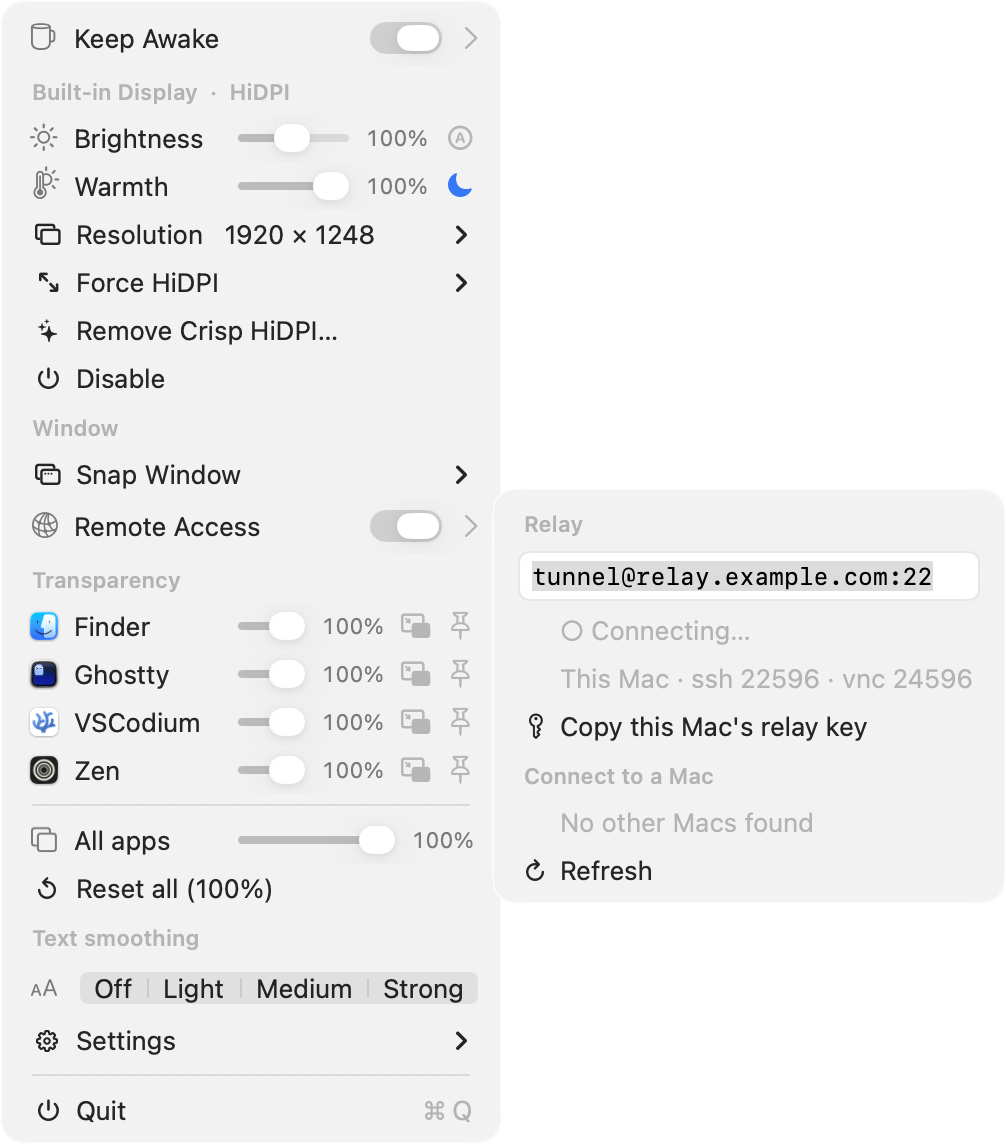
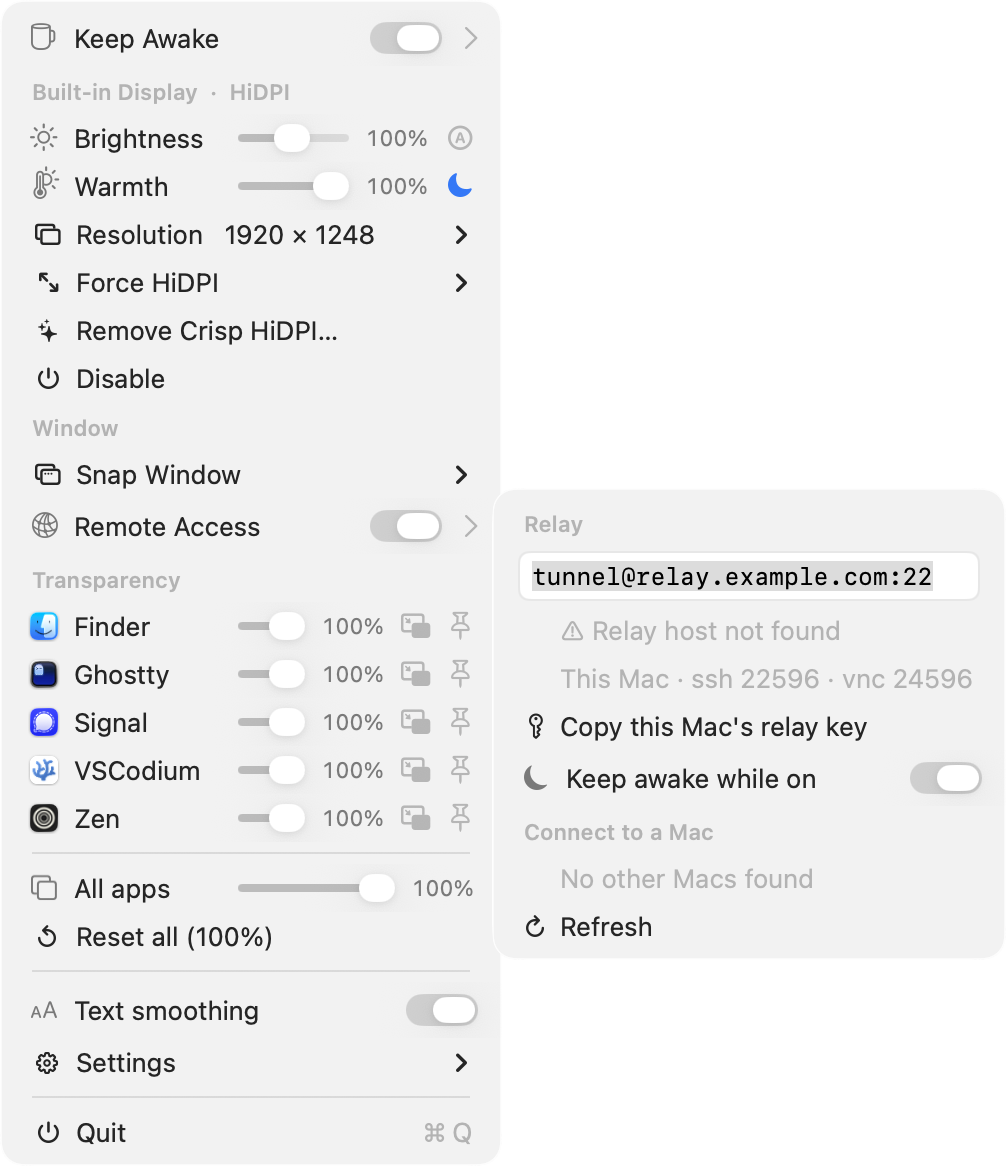
v2.5.0: Remote Access file transfer (SFTP), live peer status, keep-awake-while-on, connection error reasons

diff --git a/docs/index.html b/docs/index.html
@@ -32,7 +32,7 @@
   "processorRequirements": "Apple Silicon",
   "url": "https://displaydeck.pyxis3.ai/",
   "downloadUrl": "https://github.com/oabdrabo/DisplayDeck/releases/latest",
-  "softwareVersion": "2.4.4",
+  "softwareVersion": "2.5.0",
   "license": "https://opensource.org/licenses/MIT",
   "author": { "@type": "Person", "name": "Omar Abdrabo" },
   "description": "A tiny macOS menu-bar app: disable screens, force HiDPI, boost brightness past 100%, warm the colors (auto at night), snap and tile windows, make any window transparent or float, reach your Mac from anywhere, and keep it awake.",
@@ -292,7 +292,7 @@
       <div class="feat"><span class="tag">COLOR</span><h3>Warmth + auto-night</h3><p>A per-display color-temperature slider, f.lux style: neutral 6500&nbsp;K down to a warm ~3400&nbsp;K via gamma ramps. An automatic night schedule (the 🌙 toggle) eases warmth on at dusk and off by morning, hands-free.</p></div>
       <div class="feat"><span class="tag">TILING</span><h3>Window snapping</h3><p>Tile the focused window to halves, quarters, thirds, maximize or center — with global ⌃⌥ shortcuts, drag-to-edge snapping, and a menu of layout glyphs. No SIP changes needed.</p></div>
       <div class="feat"><span class="tag">WINDOWS</span><h3>Transparency, float &amp; PiP</h3><p>Set any app's opacity, add frosted-glass blur, keep a window on top, or shrink one into a still-usable floating corner.</p></div>
-      <div class="feat"><span class="tag">REMOTE</span><h3>Remote access</h3><p>Reach this Mac — and your other Macs — from anywhere, nothing to install. An auto-reconnecting reverse-SSH tunnel through a relay you control forwards SSH and Screen Sharing; peers are auto-discovered, so you can Screen Share or SSH into them from the menu.</p></div>
+      <div class="feat"><span class="tag">REMOTE</span><h3>Remote access</h3><p>Reach this Mac — and your other Macs — from anywhere, nothing to install. An auto-reconnecting reverse-SSH tunnel through a relay you control forwards SSH, Screen Sharing, and file transfer; peers are auto-discovered with live online status, so you can Screen Share, SSH, or send files from the menu. Stays awake while on so it's reachable.</p></div>
       <div class="feat"><span class="tag">POWER</span><h3>Keep awake</h3><p>An IOKit caffeine assertion so your Mac and its display won't sleep — indefinitely (a toggle), or for a duration you pick. Left-click the mug to toggle.</p></div>
       <div class="feat"><span class="tag">TEXT</span><h3>Text smoothing</h3><p>Toggle macOS's grayscale antialiasing on/off — one system-wide switch across every display, the built-in included. Most visible on non-Retina, external, or scaled monitors. macOS treats it as binary, so it's a single switch.</p></div>
     </div>

diff --git a/src/remote/RemoteAccess.m b/src/remote/RemoteAccess.m
@@ -1,23 +1,45 @@
 #import "RemoteAccess.h"
 #import <AppKit/AppKit.h>
+#import <IOKit/pwr_mgt/IOPMLib.h>
 
 static NSString *const kEnabledKey  = @"RemoteAccessEnabled";
 static NSString *const kServicesKey = @"RemoteServicesEnabled";   // services already turned on once
 static NSString *const kRelayHostKey = @"RemoteRelayHost";
 static NSString *const kRelayUserKey = @"RemoteRelayUser";
 static NSString *const kRelayPortKey = @"RemoteRelayPort";
+static NSString *const kKeepAwakeKey = @"RemoteKeepAwake";
 
 static NSString *const kDefaultRelayHost = @"";          // unset by default — user configures
 static NSString *const kDefaultRelayUser = @"tunnel";
 static NSString *const kDefaultRelayPort = @"22";
 
+// Boil ssh's stderr down to one human-readable cause so the menu can say *why*.
+static NSString *ddFriendlyTunnelError(NSString *raw) {
+    if (raw.length == 0) return nil;
+    NSString *low = raw.lowercaseString;
+    if ([low containsString:@"remote port forwarding failed"]) return @"Relay port already in use";
+    if ([low containsString:@"could not resolve"])             return @"Relay host not found";
+    if ([low containsString:@"permission denied"])             return @"Relay rejected the key";
+    if ([low containsString:@"host key verification failed"])  return @"Relay host key changed";
+    if ([low containsString:@"connection refused"] || [low containsString:@"timed out"] ||
+        [low containsString:@"no route to host"] || [low containsString:@"network is unreachable"])
+        return @"Relay unreachable";
+    for (NSString *line in [raw componentsSeparatedByString:@"\n"]) {
+        NSString *t = [line stringByTrimmingCharactersInSet:[NSCharacterSet whitespaceAndNewlineCharacterSet]];
+        if (t.length) return t;
+    }
+    return nil;
+}
+
 @interface RemoteAccess ()
 @property (nonatomic, strong) NSTask *task;
 @property (nonatomic) BOOL connected;
+@property (nonatomic, copy, nullable) NSString *lastError;
 @property (nonatomic, strong) dispatch_queue_t q;
 @property (nonatomic) NSTimeInterval backoff;
 @property (nonatomic, strong) NSMutableDictionary<NSNumber *, NSTask *> *forwards;  // localPort → ssh -L
 @property (nonatomic, strong) NSArray<NSDictionary *> *cachedPeers;
+@property (nonatomic) IOPMAssertionID sleepAssertion;   // 0 = none held
 @end
 
 @implementation RemoteAccess
@@ -57,6 +79,28 @@ static NSString *const kDefaultRelayPort = @"22";
 - (NSString *)relayPort { return [[NSUserDefaults standardUserDefaults] stringForKey:kRelayPortKey] ?: kDefaultRelayPort; }
 
 - (BOOL)isEnabled { return [[NSUserDefaults standardUserDefaults] boolForKey:kEnabledKey]; }
+
+- (BOOL)keepAwake {
+    NSNumber *v = [[NSUserDefaults standardUserDefaults] objectForKey:kKeepAwakeKey];
+    return v ? v.boolValue : YES;   // default ON — stay reachable while remote access is up
+}
+- (void)setKeepAwake:(BOOL)keepAwake {
+    [[NSUserDefaults standardUserDefaults] setBool:keepAwake forKey:kKeepAwakeKey];
+    [self updateSleepAssertion];
+}
+
+// Hold an idle-sleep assertion while remote access is on, so the Mac doesn't doze
+// off and drop the tunnel. Idle-sleep only — a closed laptop lid still sleeps.
+- (void)updateSleepAssertion {
+    BOOL want = self.isEnabled && self.keepAwake;
+    if (want && self.sleepAssertion == 0) {
+        IOPMAssertionCreateWithName(kIOPMAssertionTypePreventUserIdleSystemSleep,
+            kIOPMAssertionLevelOn, CFSTR("DisplayDeck Remote Access"), &_sleepAssertion);
+    } else if (!want && self.sleepAssertion != 0) {
+        IOPMAssertionRelease(self.sleepAssertion);
+        self.sleepAssertion = 0;
+    }
+}
 
 // Stable per-Mac loopback ports on the relay, derived from the host name.
 - (int)portWithBase:(int)base {
@@ -196,9 +240,10 @@ static NSString *const kDefaultRelayPort = @"22";
             if (f.count < 3) continue;
             int ssh = f[1].intValue, vnc = f[2].intValue;
             if (ssh <= 0 || ssh == selfSsh) continue;   // skip ourselves
+            BOOL online = (f.count >= 4 && f[3].intValue != 0);   // 4th field = live flag
             [found addObject:@{ @"name": f[0].length ? f[0] : @"Mac",
                                 @"user": NSUserName(),
-                                @"ssh": @(ssh), @"vnc": @(vnc) }];
+                                @"ssh": @(ssh), @"vnc": @(vnc), @"online": @(online) }];
         }
         if ([found isEqualToArray:(self.cachedPeers ?: @[])]) return;   // no change → no rebuild
         self.cachedPeers = found;
@@ -260,6 +305,21 @@ static NSString *const kDefaultRelayPort = @"22";
     if (err) NSLog(@"DisplayDeck: ssh peer failed: %@", err);
 }
 
+// Open an SFTP (file transfer) session to a peer in Terminal, over the same relay.
+- (void)sftpPeer:(NSDictionary *)peer {
+    int ssh = [peer[@"ssh"] intValue];
+    if (ssh <= 0) return;
+    NSString *cmd = [NSString stringWithFormat:
+        @"sftp -i '%@' -o IdentitiesOnly=yes -J %@@%@ -P %d %@@localhost",
+        [self keyPath], self.relayUser, self.relayHost, ssh, peer[@"user"]];
+    NSString *src = [NSString stringWithFormat:
+        @"tell application \"Terminal\"\nactivate\ndo script \"%@\"\nend tell",
+        [cmd stringByReplacingOccurrencesOfString:@"\"" withString:@"\\\""]];
+    NSDictionary *err = nil;
+    [[[NSAppleScript alloc] initWithSource:src] executeAndReturnError:&err];
+    if (err) NSLog(@"DisplayDeck: sftp peer failed: %@", err);
+}
+
 #pragma mark - Enable / disable
 
 - (void)enable {
@@ -269,16 +329,18 @@ static NSString *const kDefaultRelayPort = @"22";
         return;
     }
     [self enableServicesIfNeeded];
+    [self updateSleepAssertion];
     dispatch_async(self.q, ^{ self.backoff = 2.0; [self launchTunnelLocked]; });
 }
 
 - (void)disable {
     [[NSUserDefaults standardUserDefaults] setBool:NO forKey:kEnabledKey];
+    [self updateSleepAssertion];
     dispatch_async(self.q, ^{
         NSTask *t = self.task;
         self.task = nil;
         @try { [t terminate]; } @catch (__unused NSException *e) {}
-        dispatch_async(dispatch_get_main_queue(), ^{ self.connected = NO; });
+        dispatch_async(dispatch_get_main_queue(), ^{ self.connected = NO; self.lastError = nil; });
     });
 }
 
@@ -294,6 +356,7 @@ static NSString *const kDefaultRelayPort = @"22";
         @try { if (f.isRunning) [f terminate]; } @catch (__unused NSException *e) {}
     }
     [self.forwards removeAllObjects];
+    if (self.sleepAssertion != 0) { IOPMAssertionRelease(self.sleepAssertion); self.sleepAssertion = 0; }
 }
 
 // Enable Remote Login + Screen Sharing once (single admin prompt). Best-effort:
@@ -343,14 +406,21 @@ static NSString *const kDefaultRelayPort = @"22";
         [NSString stringWithFormat:@"%@@%@", self.relayUser, self.relayHost],
     ];
     t.standardOutput = [NSFileHandle fileHandleWithNullDevice];
-    t.standardError  = [NSFileHandle fileHandleWithNullDevice];
+    NSPipe *errPipe = [NSPipe pipe];
+    t.standardError  = errPipe;
 
     __weak __typeof(self) ws = self;
     t.terminationHandler = ^(NSTask *task) {
         (void)task;
         __strong __typeof(ws) self = ws; if (!self) return;
+        NSData *ed = [errPipe.fileHandleForReading readDataToEndOfFile];
+        NSString *why = ddFriendlyTunnelError(
+            [[NSString alloc] initWithData:ed encoding:NSUTF8StringEncoding] ?: @"");
         dispatch_async(self.q, ^{
-            dispatch_async(dispatch_get_main_queue(), ^{ self.connected = NO; });
+            dispatch_async(dispatch_get_main_queue(), ^{
+                self.connected = NO;
+                if (why) self.lastError = why;
+            });
             if (!self.isEnabled) return;
             // exponential backoff, capped — survive relay reboots / network drops
             NSTimeInterval delay = self.backoff;
@@ -367,7 +437,7 @@ static NSString *const kDefaultRelayPort = @"22";
         dispatch_after(dispatch_time(DISPATCH_TIME_NOW, (int64_t)(4 * NSEC_PER_SEC)), self.q, ^{
             if (self.task == t && t.isRunning) {
                 self.backoff = 2.0;
-                dispatch_async(dispatch_get_main_queue(), ^{ self.connected = YES; });
+                dispatch_async(dispatch_get_main_queue(), ^{ self.connected = YES; self.lastError = nil; });
             }
         });
     } @catch (__unused NSException *e) {

diff --git a/src/app/AppDelegate.m b/src/app/AppDelegate.m
@@ -557,7 +557,9 @@ static NSAttributedString *ddColumns(NSArray<NSString *> *cols, NSArray<NSNumber
     NSString *state;
     if (!ra.isConfigured)    state = @"⚠ Set the relay above";
     else if (!ra.isEnabled)  state = @"○ Off";
-    else                     state = ra.isConnected ? @"● Connected" : @"○ Connecting…";
+    else if (ra.isConnected) state = @"● Connected";
+    else                     state = ra.lastError ? [@"⚠ " stringByAppendingString:ra.lastError]
+                                                   : @"○ Connecting…";
     [self addLabelToMenu:m title:state];
     if (ra.isConfigured) {
         [self addLabelToMenu:m title:
@@ -567,24 +569,31 @@ static NSAttributedString *ddColumns(NSArray<NSString *> *cols, NSArray<NSNumber
         action:@selector(copyRemoteAuthLine:) keyEquivalent:@""];
     key.target = self; key.image = ddSymbol(@"key");
     [m addItem:key];
+    [m addItem:[self switchRow:@"Keep awake while on" icon:@"powersleep"
+                            on:ra.keepAwake action:@selector(keepAwakeRemoteToggled:)
+                         width:kSliderRowWidth]];
 
-    // Connect — auto-discovered peers, inline (no per-peer submenus)
+    // Connect — auto-discovered peers; ● live / ○ offline, with per-peer actions.
     [m addItem:[NSMenuItem sectionHeaderWithTitle:@"Connect to a Mac"]];
     NSArray<NSDictionary *> *peers = ra.peers;
     if (peers.count == 0) {
         [self addLabelToMenu:m title:@"No other Macs found"];
     }
     for (NSDictionary *peer in peers) {
-        NSMenuItem *ss = [[NSMenuItem alloc] initWithTitle:
-            [NSString stringWithFormat:@"%@ — Screen Share", peer[@"name"]]
+        [self addLabelToMenu:m title:[NSString stringWithFormat:@"%@ %@",
+            [peer[@"online"] boolValue] ? @"●" : @"○", peer[@"name"]]];
+        NSMenuItem *ss = [[NSMenuItem alloc] initWithTitle:@"Screen Share"
             action:@selector(connectScreenShare:) keyEquivalent:@""];
         ss.target = self; ss.image = ddSymbol(@"display"); ss.representedObject = peer;
         [m addItem:ss];
-        NSMenuItem *sh = [[NSMenuItem alloc] initWithTitle:
-            [NSString stringWithFormat:@"%@ — SSH", peer[@"name"]]
+        NSMenuItem *sh = [[NSMenuItem alloc] initWithTitle:@"SSH"
             action:@selector(connectSSH:) keyEquivalent:@""];
         sh.target = self; sh.image = ddSymbol(@"terminal"); sh.representedObject = peer;
         [m addItem:sh];
+        NSMenuItem *sf = [[NSMenuItem alloc] initWithTitle:@"Files"
+            action:@selector(connectSFTP:) keyEquivalent:@""];
+        sf.target = self; sf.image = ddSymbol(@"folder"); sf.representedObject = peer;
+        [m addItem:sf];
     }
     NSMenuItem *refresh = [[NSMenuItem alloc] initWithTitle:@"Refresh"
         action:@selector(refreshRemotePeers:) keyEquivalent:@""];
@@ -728,6 +737,12 @@ static NSAttributedString *ddColumns(NSArray<NSString *> *cols, NSArray<NSNumber
 }
 - (void)connectSSH:(NSMenuItem *)sender {
     [[RemoteAccess shared] sshPeer:sender.representedObject];
+}
+- (void)connectSFTP:(NSMenuItem *)sender {
+    [[RemoteAccess shared] sftpPeer:sender.representedObject];
+}
+- (void)keepAwakeRemoteToggled:(NSSwitch *)sw {
+    [RemoteAccess shared].keepAwake = (sw.state == NSControlStateValueOn);
 }
 - (void)refreshRemotePeers:(id)sender {
     (void)sender;

diff --git a/src/remote/RemoteAccess.h b/src/remote/RemoteAccess.h
@@ -13,6 +13,8 @@ NS_ASSUME_NONNULL_BEGIN
 
 @property (nonatomic, readonly, getter=isEnabled) BOOL enabled;   // user wants it on (persisted)
 @property (nonatomic, readonly, getter=isConnected) BOOL connected; // tunnel process currently up
+@property (nonatomic, readonly, nullable) NSString *lastError;   // why the tunnel last failed (nil once connected)
+@property (nonatomic) BOOL keepAwake;            // hold a sleep assertion while enabled, so the Mac stays reachable (persisted, default ON)
 
 // Turn on: generate the key if needed, enable Remote Login + Screen Sharing
 // (one admin prompt), and start the auto-reconnecting tunnel.
@@ -36,13 +38,14 @@ NS_ASSUME_NONNULL_BEGIN
 
 // --- Client: connect to your *other* Macs through the same relay ---
 // Peers are auto-discovered: a read-only "list-peers" command on the relay
-// returns every authorized Mac's name + ports. Each peer:
-// @{ @"name":…, @"user":…, @"ssh":@(port), @"vnc":@(port) }.
+// returns every authorized Mac's name, ports, and whether its tunnel is live. Each:
+// @{ @"name":…, @"user":…, @"ssh":@(port), @"vnc":@(port), @"online":@(BOOL) }.
 - (NSArray<NSDictionary *> *)peers;       // last discovered set (cached)
 - (void)refreshPeers;                     // async: query the relay, then onPeersChanged
 @property (nonatomic, copy, nullable) void (^onPeersChanged)(void);
 - (void)screenSharePeer:(NSDictionary *)peer;   // opens Screen Sharing via the relay
 - (void)sshPeer:(NSDictionary *)peer;           // opens an SSH session in Terminal
+- (void)sftpPeer:(NSDictionary *)peer;          // opens an SFTP (file transfer) session in Terminal
 
 // Restore on launch if previously enabled.
 - (void)restoreIfEnabled;

diff --git a/CHANGELOG.md b/CHANGELOG.md
@@ -2,6 +2,14 @@
 
 All notable changes to DisplayDeck are documented here. Format follows [Keep a Changelog](https://keepachangelog.com); versions follow [SemVer](https://semver.org).
 
+## [2.5.0] — 2026-06-18
+
+### Added
+- **Remote Access — file transfer (SFTP).** Each discovered Mac now has a **Files** action that opens an SFTP session over the same relay tunnel, so you can move files to/from it alongside Screen Share and SSH.
+- **Live peer online status.** Discovered Macs show **● online / ○ offline** — the relay now reports whether each Mac's tunnel is actually up, instead of just listing every authorized Mac, so you don't click into a peer that isn't there.
+- **Keep awake while on.** An optional (default on) toggle holds an idle-sleep assertion while Remote Access is enabled, so the Mac stays reachable instead of dozing off and dropping the tunnel. (Idle sleep only — a closed laptop lid still sleeps.)
+- **Connection error reasons.** When the tunnel can't connect, the status line now says *why* — "Relay unreachable", "Relay rejected the key", "Relay port already in use", "Relay host not found", etc. — instead of an endless "Connecting…".
+
 ## [2.4.4] — 2026-06-18
 
 ### Fixed
@@ -119,6 +127,7 @@ All notable changes to DisplayDeck are documented here. Format follows [Keep a C
 ### Added
 - Initial release: disable/enable any display, Force HiDPI via a mirrored virtual display, brightness control, and keep-awake.
 
+[2.5.0]: https://github.com/oabdrabo/DisplayDeck/releases/tag/v2.5.0
 [2.4.4]: https://github.com/oabdrabo/DisplayDeck/releases/tag/v2.4.4
 [2.4.3]: https://github.com/oabdrabo/DisplayDeck/releases/tag/v2.4.3
 [2.4.2]: https://github.com/oabdrabo/DisplayDeck/releases/tag/v2.4.2

diff --git a/README.md b/README.md
@@ -7,7 +7,7 @@
 
 Disable & enable screens · Force HiDPI · brightness with EDR boost · color warmth (with auto-night) · window tiling/snapping · transparency, blur, keep-on-top & picture-in-picture · keep-awake · remote access.
 
-[![Release](https://img.shields.io/badge/release-v2.4.4-2ea44f?style=flat-square)](https://github.com/oabdrabo/DisplayDeck/releases/latest)
+[![Release](https://img.shields.io/badge/release-v2.5.0-2ea44f?style=flat-square)](https://github.com/oabdrabo/DisplayDeck/releases/latest)
 [![License](https://img.shields.io/badge/license-MIT-3da639?style=flat-square)](LICENSE)
 [![Platform](https://img.shields.io/badge/macOS-14%2B-000?style=flat-square&logo=apple&logoColor=white)](#-requirements)
 [![Apple Silicon](https://img.shields.io/badge/Apple_Silicon-555?style=flat-square)](#-requirements)
@@ -38,7 +38,7 @@ Disable & enable screens · Force HiDPI · brightness with EDR boost · color wa
 | 🧩 **Window snapping** | Tile the focused window to **halves, quarters, thirds / two-thirds, maximize, center**, or **restore** — via **global `⌃⌥` keyboard shortcuts**, **dragging to a screen edge/corner** (with a live preview), or the **Window** menu. Uses the Accessibility API; works on a stock machine. |
 | 🪟 **Window transparency** | Set per-app or all-window opacity for **any** app, via a self-contained scripting addition injected into Dock (no external tools). Optional **frosted-glass blur**, per-app **Keep on top**, and **Picture-in-Picture** (shrink a window into a still-usable floating corner). |
 | ☕ **Keep awake** | An IOKit caffeine assertion so the Mac and its display don't sleep — indefinitely (toggle) or for a set duration (15 min → 5 h). Replaces KeepingYouAwake. |
-| 🌐 **Remote access** | Reach this Mac — and your **other Macs** — from anywhere, with **nothing to install**. An auto-reconnecting **reverse-SSH** tunnel through a relay host *you* control forwards **SSH** and **Screen Sharing**; no Tailscale/Headscale or third-party agent. Doubles as a **client**: peers on the same relay are **auto-discovered**, so you can Screen Share or SSH into them from the menu. |
+| 🌐 **Remote access** | Reach this Mac — and your **other Macs** — from anywhere, with **nothing to install**. An auto-reconnecting **reverse-SSH** tunnel through a relay host *you* control forwards **SSH**, **Screen Sharing**, and **file transfer (SFTP)**; no Tailscale/Headscale or third-party agent. Doubles as a **client**: peers on the same relay are **auto-discovered with live online status**, so you can Screen Share, SSH, or transfer files to them from the menu. Optionally **keeps the Mac awake** while on so it stays reachable, and surfaces **why** a connection failed. |
 | 🔤 **Text smoothing** | Toggle macOS's grayscale antialiasing **on/off** — a single **system-wide** switch that affects **every display, including the built-in** (`AppleFontSmoothing` isn't per-display). The effect is most visible on **non-Retina, external, or scaled** monitors; on a Retina panel it's subtle by design. (macOS treats the setting as binary — the old strength levels render identically.) Applies after a re-login. |
 
 The menu-bar icon is an interactive **coffee mug**: left-click toggles keep-awake (filled cup = awake), right-click opens the menu.
@@ -53,7 +53,7 @@ The menu — a **Keep Awake** row with an inline toggle, per-display **Brightnes
 
 <p align="center"><img src="assets/screenshots/menu.png" width="300" alt="Main menu" /></p>
 
-**Remote access** — set the relay inline as a single `user@host:port`, copy this Mac's relay key, and Screen Share / SSH into your auto-discovered Macs, all from the menu:
+**Remote access** — set the relay inline as a single `user@host:port`, copy this Mac's relay key, keep the Mac awake while on, and Screen Share / SSH / transfer files to your auto-discovered Macs (● live · ○ offline), all from the menu. If a connection fails it tells you why (here the placeholder `relay.example.com` doesn't resolve):
 
 <p align="center"><img src="assets/screenshots/remote.png" width="500" alt="Remote Access submenu — relay field, status, and discovered Macs" /></p>
 